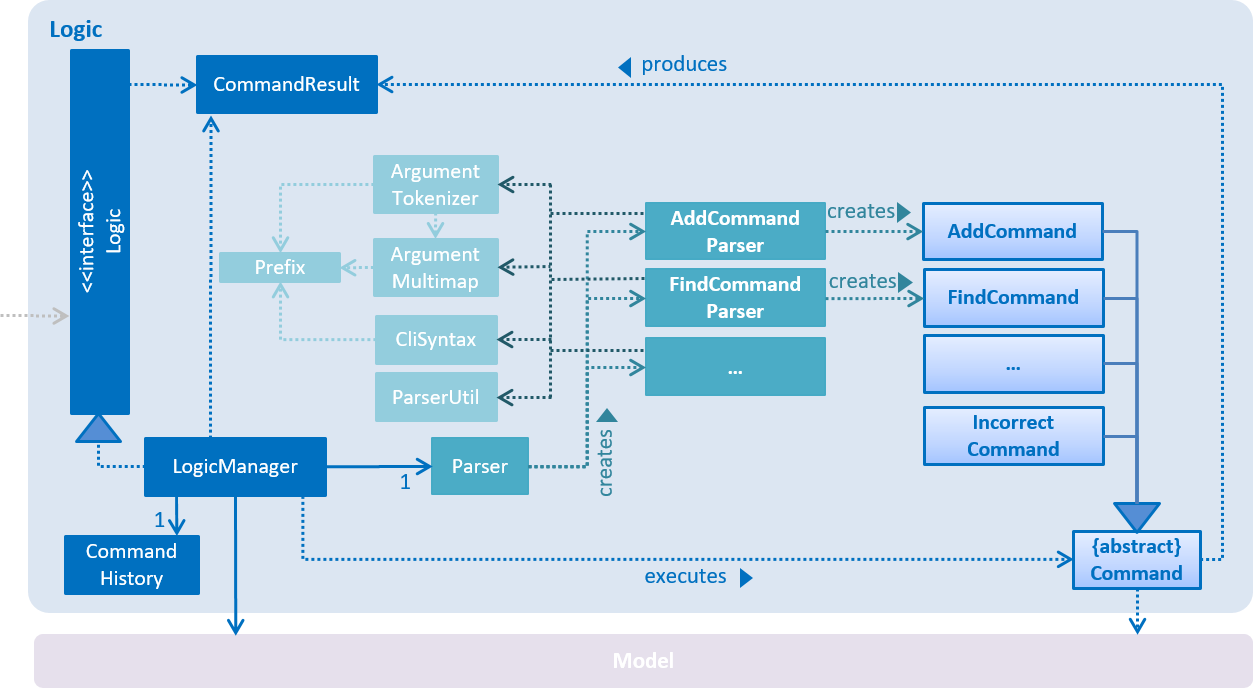
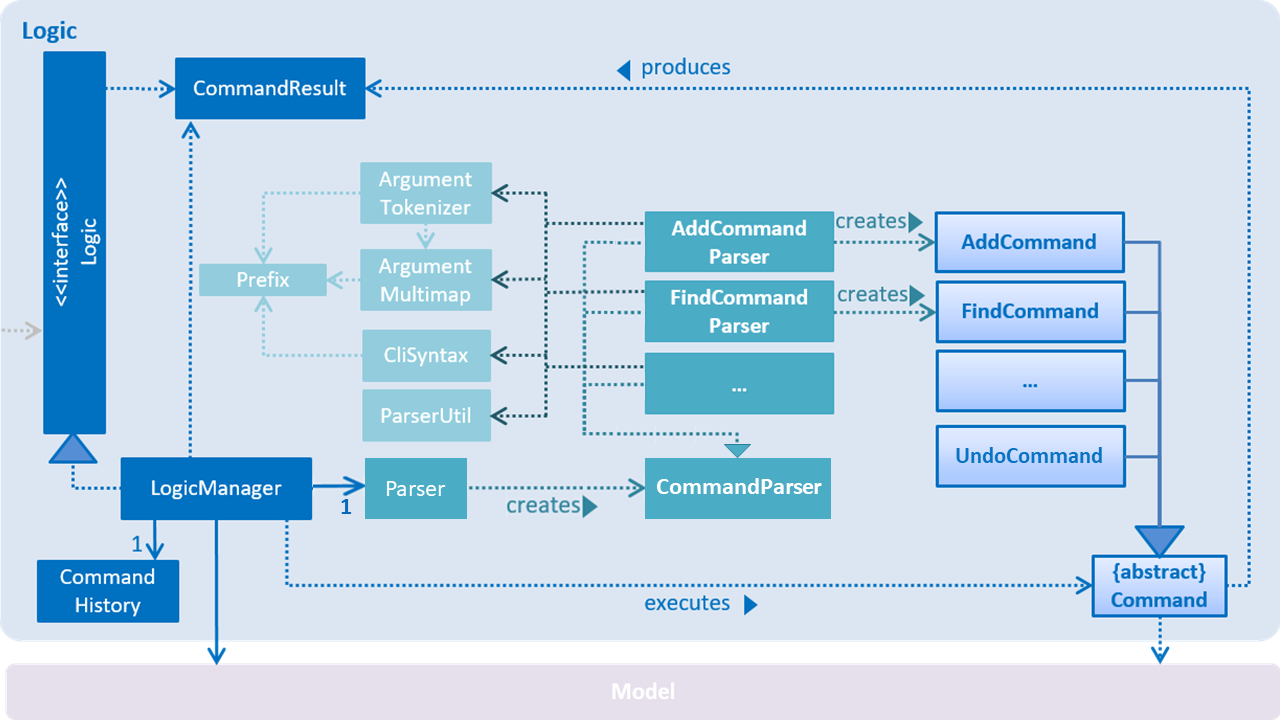
Updated developerGuide, created an interface CommandParser

diff --git a/src/main/java/teamthree/twodo/logic/parser/Parser.java b/src/main/java/teamthree/twodo/logic/parser/Parser.java
@@ -26,6 +26,7 @@ import teamthree.twodo.logic.commands.UnmarkCommand;
 import teamthree.twodo.logic.commands.exceptions.CommandException;
 import teamthree.twodo.logic.parser.exceptions.ParseException;
 
+//@@author A0107433N
 /**
  * Parses user input.
  */
@@ -54,42 +55,11 @@ public class Parser {
 
         final String commandWord = matcher.group("commandWord");
         final String arguments = matcher.group("arguments");
+        CommandParser parser;
 
         switch (commandWord) {
-
-        case AddCommand.COMMAND_WORD:
-        case AddCommand.COMMAND_WORD_QUICK:
-        case AddCommand.COMMAND_WORD_FAST:
-            return new AddCommandParser().parse(arguments);
-
-        case EditCommand.COMMAND_WORD:
-        case EditCommand.COMMAND_WORD_FAST:
-            return new EditCommandParser().parse(arguments);
-
-        case DeleteCommand.COMMAND_WORD_QUICK:
-        case DeleteCommand.COMMAND_WORD_FAST:
-        case DeleteCommand.COMMAND_WORD_SHORT:
-        case DeleteCommand.COMMAND_WORD:
-            return new DeleteCommandParser().parse(arguments);
-
-        case MarkCommand.COMMAND_WORD:
-        case MarkCommand.COMMAND_WORD_FAST:
-            return new MarkCommandParser().parse(arguments);
-
-        case UnmarkCommand.COMMAND_WORD:
-        case UnmarkCommand.COMMAND_WORD_FAST:
-            return new UnmarkCommandParser().parse(arguments);
-
         case ClearCommand.COMMAND_WORD:
             return new ClearCommand();
-
-        case FindCommand.COMMAND_WORD:
-        case FindCommand.COMMAND_WORD_FAST:
-            return new FindCommandParser().parse(arguments);
-
-        case ListCommand.COMMAND_WORD:
-        case ListCommand.COMMAND_WORD_FAST:
-            return new ListCommandParser().parse(arguments);
 
         case UndoCommand.COMMAND_WORD:
         case UndoCommand.COMMAND_WORD_FAST:
@@ -107,26 +77,68 @@ public class Parser {
         case ExitCommand.COMMAND_WORD_FAST:
             return new ExitCommand();
 
-        case SaveCommand.COMMAND_WORD:
-        case SaveCommand.COMMAND_WORD_FAST:
-            return new SaveCommandParser().parse(arguments);
-
-        case LoadCommand.COMMAND_WORD:
-            return new LoadCommandParser().parse(arguments);
-
-        case OptionsCommand.COMMAND_WORD:
-        case OptionsCommand.COMMAND_WORD_FAST:
-            return new OptionsCommandParser().parse(arguments);
-
         case HelpCommand.COMMAND_WORD:
             if (arguments.isEmpty()) {
                 return new HelpCommand();
             }
-            return new HelpCommandParser().parse(arguments);
+            parser = new HelpCommandParser();
+            break;
+
+        case AddCommand.COMMAND_WORD:
+        case AddCommand.COMMAND_WORD_QUICK:
+        case AddCommand.COMMAND_WORD_FAST:
+            parser = new AddCommandParser();
+            break;
+
+        case EditCommand.COMMAND_WORD:
+        case EditCommand.COMMAND_WORD_FAST:
+            parser = new EditCommandParser();
+            break;
+
+        case DeleteCommand.COMMAND_WORD_QUICK:
+        case DeleteCommand.COMMAND_WORD_FAST:
+        case DeleteCommand.COMMAND_WORD_SHORT:
+        case DeleteCommand.COMMAND_WORD:
+            parser = new DeleteCommandParser();
+            break;
+
+        case MarkCommand.COMMAND_WORD:
+        case MarkCommand.COMMAND_WORD_FAST:
+            parser = new MarkCommandParser();
+            break;
+
+        case UnmarkCommand.COMMAND_WORD:
+        case UnmarkCommand.COMMAND_WORD_FAST:
+            parser = new UnmarkCommandParser();
+            break;
+
+        case FindCommand.COMMAND_WORD:
+        case FindCommand.COMMAND_WORD_FAST:
+            parser = new FindCommandParser();
+            break;
+
+        case ListCommand.COMMAND_WORD:
+        case ListCommand.COMMAND_WORD_FAST:
+            parser = new ListCommandParser();
+            break;
+
+        case SaveCommand.COMMAND_WORD:
+        case SaveCommand.COMMAND_WORD_FAST:
+            parser = new SaveCommandParser();
+            break;
+
+        case LoadCommand.COMMAND_WORD:
+            parser = new LoadCommandParser();
+            break;
+
+        case OptionsCommand.COMMAND_WORD:
+        case OptionsCommand.COMMAND_WORD_FAST:
+            parser = new OptionsCommandParser();
+            break;
 
         default:
             throw new ParseException(MESSAGE_UNKNOWN_COMMAND);
         }
-
+        return parser.parse(arguments);
     }
 }

diff --git a/src/main/java/teamthree/twodo/logic/commands/ListCommand.java b/src/main/java/teamthree/twodo/logic/commands/ListCommand.java
@@ -29,6 +29,8 @@ public class ListCommand extends Command {
     public static final String MESSAGE_SUCCESS_COMPLETE_BOTH = "Listed all completed tasks between %1$s and %1$s";
     public static final String MESSAGE_SUCCESS_INCOMPLETE_TAG = "Listed all incompleted tasks with specified tag(s)";
     public static final String MESSAGE_SUCCESS_COMPLETE_TAG = "Listed all completed tasks with specified tag(s)";
+    public static final String MESSAGE_EMPTY_LIST = "No tasks to show\n"
+            + "Try adding new tasks or changing the listing criteria";
 
     public static final String MESSAGE_USAGE = COMMAND_WORD + ": Lists all incomplete tasks within specified period.\n"
             + "If only start date specified, list all tasks after start date. "
@@ -70,6 +72,9 @@ public class ListCommand extends Command {
 
     //Chooses appropriate message based on user input
     private CommandResult messageChooser() {
+        if (model.getFilteredAndSortedTaskList().size() == 0) {
+            return new CommandResult(MESSAGE_EMPTY_LIST);
+        }
         if (attInput.equals(AttributeInputted.NONE)) {
             if (listIncomplete) {
                 if (tagListNotEmpty()) {

diff --git a/src/main/java/teamthree/twodo/logic/parser/CommandParser.java b/src/main/java/teamthree/twodo/logic/parser/CommandParser.java
@@ -1,0 +1,20 @@
+package teamthree.twodo.logic.parser;
+
+import teamthree.twodo.logic.commands.Command;
+import teamthree.twodo.logic.parser.exceptions.ParseException;
+
+//@@author A0107433N
+/**
+ * API of CommandParsers
+ */
+public interface CommandParser {
+
+    /**
+     * Parses the command and returns the result.
+     * @param args The extra arguments after the command word entered by the user.
+     * @return the command object.
+     * @throws ParseException If the user input does not conform the expected format.
+     */
+    public Command parse(String args) throws ParseException;
+
+}

diff --git a/src/main/java/teamthree/twodo/logic/parser/LoadCommandParser.java b/src/main/java/teamthree/twodo/logic/parser/LoadCommandParser.java
@@ -14,7 +14,7 @@ import teamthree.twodo.logic.parser.exceptions.ParseException;
  * @throws ParseException
  *             if the user input does not conform to the expected format
  */
-public class LoadCommandParser {
+public class LoadCommandParser implements CommandParser {
     public LoadCommand parse(String args) throws ParseException {
         String trimmedArgs = args.trim();
         File file = new File(trimmedArgs);

diff --git a/src/main/java/teamthree/twodo/logic/parser/SaveCommandParser.java b/src/main/java/teamthree/twodo/logic/parser/SaveCommandParser.java
@@ -14,7 +14,7 @@ import teamthree.twodo.logic.parser.exceptions.ParseException;
  * @throws ParseException
  *             if the user input does not conform to the expected format
  */
-public class SaveCommandParser {
+public class SaveCommandParser implements CommandParser {
     public SaveCommand parse(String args) throws ParseException {
         String trimmedArgs = args.trim();
         File file = new File(trimmedArgs);

diff --git a/src/main/java/teamthree/twodo/logic/parser/OptionsCommandParser.java b/src/main/java/teamthree/twodo/logic/parser/OptionsCommandParser.java
@@ -17,7 +17,7 @@ import teamthree.twodo.logic.parser.exceptions.ParseException;
 
 //@@author A0139267W
 // Parses input arguments and creates a new OptionsCommand object
-public class OptionsCommandParser {
+public class OptionsCommandParser implements CommandParser {
 
     /**
      * Parses the given {@code String} of arguments in the context of the OptionsCommand

diff --git a/src/main/java/teamthree/twodo/logic/parser/UnmarkCommandParser.java b/src/main/java/teamthree/twodo/logic/parser/UnmarkCommandParser.java
@@ -9,7 +9,7 @@ import teamthree.twodo.logic.parser.exceptions.ParseException;
 
 //@@author A0139267W
 // Parses input arguments and creates a new UnmarkCommand object
-public class UnmarkCommandParser {
+public class UnmarkCommandParser implements CommandParser {
 
     /**
      * Parses the given {@code String} of arguments in the context of the UnmarkCommand

diff --git a/src/main/java/teamthree/twodo/logic/parser/MarkCommandParser.java b/src/main/java/teamthree/twodo/logic/parser/MarkCommandParser.java
@@ -9,7 +9,7 @@ import teamthree.twodo.logic.parser.exceptions.ParseException;
 
 //@@author A0139267W
 // Parses input arguments and creates a new MarkCommand object
-public class MarkCommandParser {
+public class MarkCommandParser implements CommandParser {
 
     /**
      * Parses the given {@code String} of arguments in the context of the MarkCommand

diff --git a/src/main/java/teamthree/twodo/logic/parser/FindCommandParser.java b/src/main/java/teamthree/twodo/logic/parser/FindCommandParser.java
@@ -13,7 +13,7 @@ import teamthree.twodo.logic.parser.exceptions.ParseException;
 /**
  * Parses input arguments and creates a new FindCommand object
  */
-public class FindCommandParser {
+public class FindCommandParser implements CommandParser {
 
     /**
      * Parses the given {@code String} of arguments in the context of the FindCommand

diff --git a/src/main/java/teamthree/twodo/logic/parser/DeleteCommandParser.java b/src/main/java/teamthree/twodo/logic/parser/DeleteCommandParser.java
@@ -11,7 +11,7 @@ import teamthree.twodo.logic.parser.exceptions.ParseException;
 /**
  * Parses input arguments and creates a new DeleteCommand object
  */
-public class DeleteCommandParser {
+public class DeleteCommandParser implements CommandParser {
 
     /**
      * Parses the given {@code String} of arguments in the context of the

diff --git a/src/main/java/teamthree/twodo/logic/parser/ListCommandParser.java b/src/main/java/teamthree/twodo/logic/parser/ListCommandParser.java
@@ -16,7 +16,7 @@ import teamthree.twodo.model.task.Deadline;
 
 //@@author A0107433N
 // Parses input arguments and creates a new ListCommand object
-public class ListCommandParser {
+public class ListCommandParser implements CommandParser {
 
     /**
      * Parses the given {@code String} of arguments in the context of the

diff --git a/src/main/java/teamthree/twodo/logic/parser/EditCommandParser.java b/src/main/java/teamthree/twodo/logic/parser/EditCommandParser.java
@@ -24,7 +24,7 @@ import teamthree.twodo.model.tag.Tag;
 /**
  * Parses input arguments and creates a new EditCommand object
  */
-public class EditCommandParser {
+public class EditCommandParser implements CommandParser {
 
     /**
      * Parses the given {@code String} of arguments in the context of the
